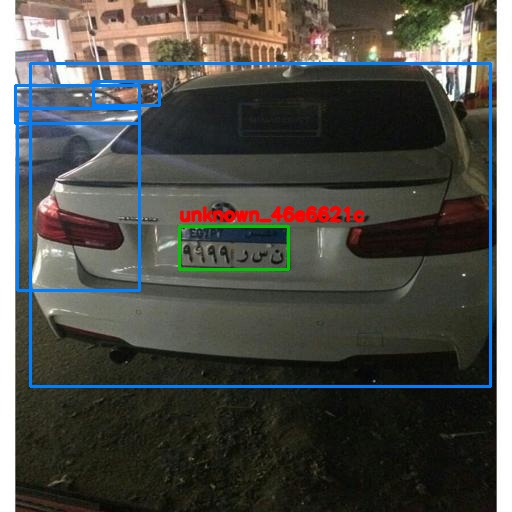
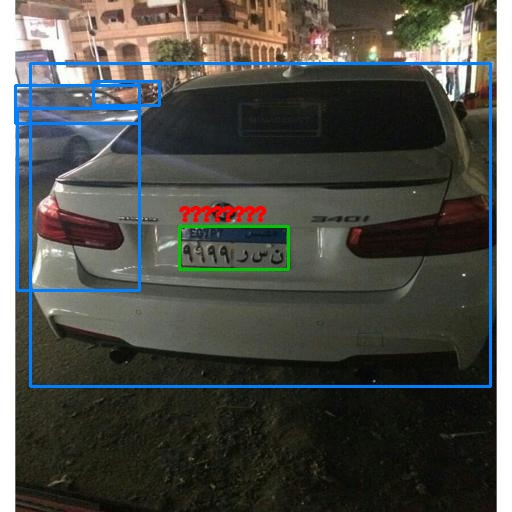
Made the plates grayscale before doing ocr

Changed region(s): [[0.3438, 0.375, 0.7188, 0.4375]]

diff --git a/src/pipeline/ocr.py b/src/pipeline/ocr.py
@@ -42,10 +42,14 @@ def _get_reader() -> easyocr.Reader:
 
 
 def _preprocess(crop: np.ndarray) -> np.ndarray:
-    height, width = crop.shape[:2]
-    resized = cv2.resize(crop, (width * 2, height * 2), interpolation=cv2.INTER_CUBIC)
-    gray = cv2.cvtColor(resized, cv2.COLOR_BGR2GRAY)
-    denoised = cv2.GaussianBlur(gray, (3, 3), 0)
+    if crop.ndim == 3:
+        gray = cv2.cvtColor(crop, cv2.COLOR_BGR2GRAY)
+    else:
+        gray = crop.copy()
+
+    height, width = gray.shape[:2]
+    resized = cv2.resize(gray, (width * 2, height * 2), interpolation=cv2.INTER_CUBIC)
+    denoised = cv2.GaussianBlur(resized, (3, 3), 0)
     return denoised
 
 
@@ -110,3 +114,4 @@ def read_plate_text(crop: np.ndarray) -> tuple[str, float]:
     confs = letters_confs + digits_confs
     mean_conf = sum(confs) / len(confs) if confs else 0.0
     return raw_text, mean_conf
+

diff --git a/src/cli.py b/src/cli.py
@@ -174,7 +174,7 @@ def parse_args() -> argparse.Namespace:
     run_parser.add_argument(
         "--ocr_min_conf",
         type=float,
-        default=0.1,
+        default=0.05,
         help="Minimum OCR confidence for accepting a plate ID.",
     )
     run_parser.add_argument(
